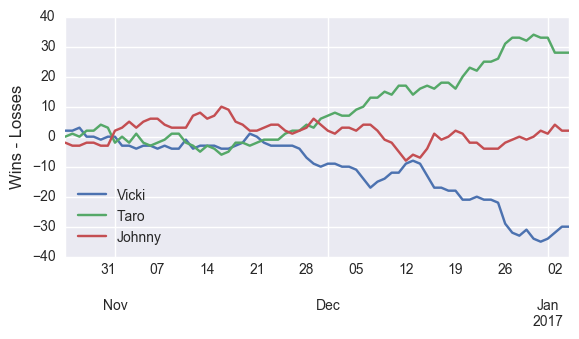
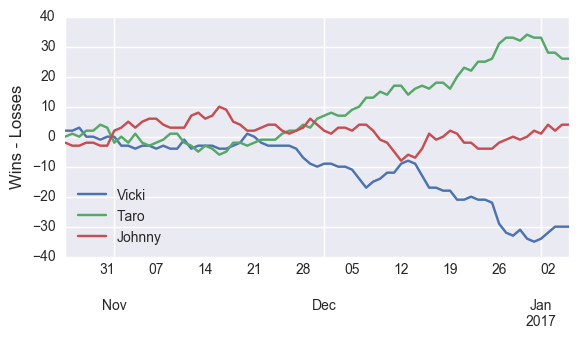
update 1/5

diff --git a/index.html b/index.html
@@ -35,7 +35,7 @@
 <a id="the-bet-is-on" class="anchor" href="#the-bet-is-on" aria-hidden="true"><span aria-hidden="true" class="octicon octicon-link"></span></a>The bet is on.</h1>
 
 <h1>
-<a id="current-winner-of-2016-17-season" class="anchor" href="#current-winner-of-2016-17-season" aria-hidden="true"><span aria-hidden="true" class="octicon octicon-link"></span></a>Current winner of 2016-17 Season (as of 1/4/2017):</h1>
+<a id="current-winner-of-2016-17-season" class="anchor" href="#current-winner-of-2016-17-season" aria-hidden="true"><span aria-hidden="true" class="octicon octicon-link"></span></a>Current winner of 2016-17 Season (as of 1/5/2017):</h1>
 
 <h2>
 <a id="none" class="anchor" href="#none" aria-hidden="true"><span aria-hidden="true" class="octicon octicon-link"></span></a><strong>Taro</strong>
@@ -44,23 +44,23 @@
 <h2>
 <a id="johnny" class="anchor" href="#johnny" aria-hidden="true"><span aria-hidden="true" class="octicon octicon-link"></span></a>Johnny</h2>
 
-<p>Wins: 178<br>
-Losses: 176<br>
-Remaining wins available: 398</p>
+<p>Wins: 181<br>
+Losses: 177<br>
+Remaining wins available: 395</p>
 
 <h2>
 <a id="taro" class="anchor" href="#taro" aria-hidden="true"><span aria-hidden="true" class="octicon octicon-link"></span></a>Taro</h2>
 
-<p>Wins: 187<br>
-Losses: 159<br>
-Remaining wins available: 400</p>
+<p>Wins: 188<br>
+Losses: 162<br>
+Remaining wins available: 397</p>
 
 <h2>
 <a id="vicki" class="anchor" href="#vicki" aria-hidden="true"><span aria-hidden="true" class="octicon octicon-link"></span></a>Vicki</h2>
 
-<p>Wins: 162<br>
-Losses: 192<br>
-Remaining wins available: 399</p>
+<p>Wins: 165<br>
+Losses: 195<br>
+Remaining wins available: 395</p>
 
 <img src='pythoncode/win_percent.png' alt='Winning Percentage Over Time'>
 <h1>
